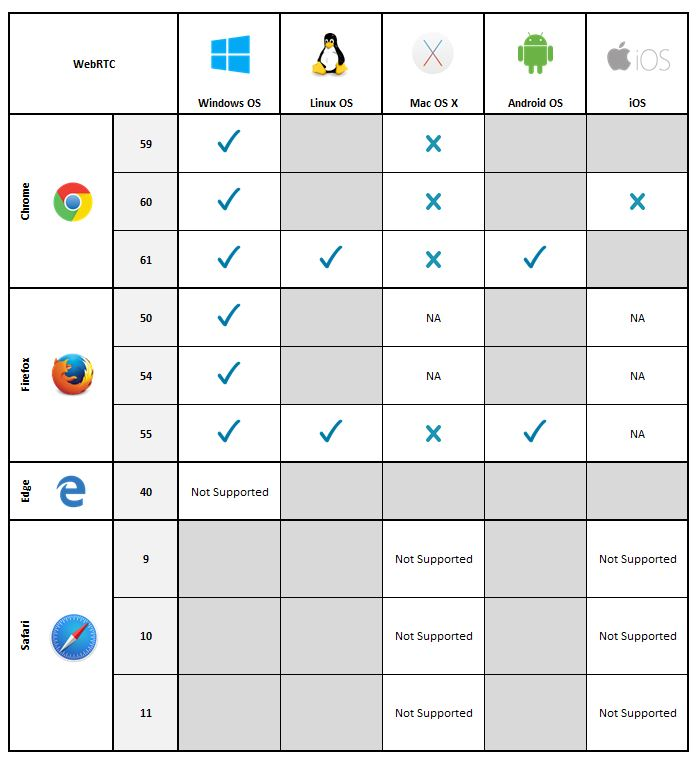
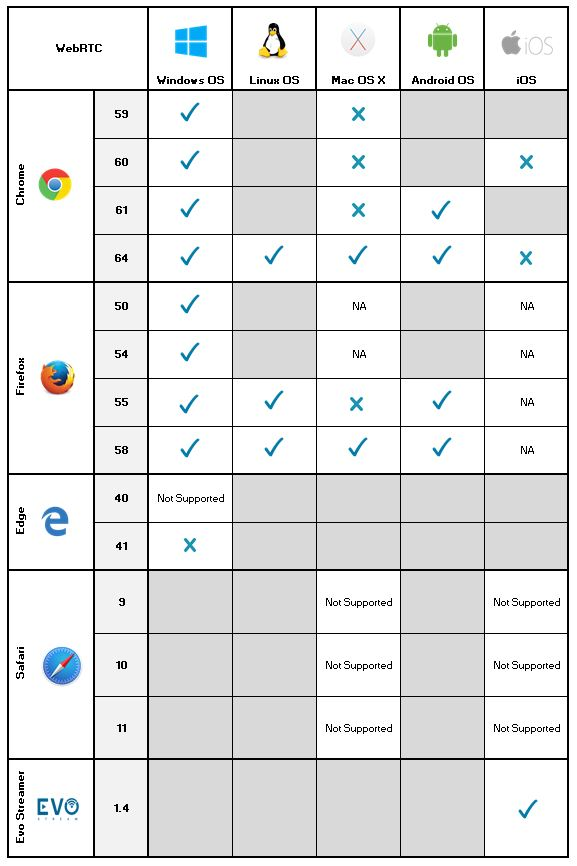
updated and added protocol support matrix

Changed region(s): [[0.0, 0.0, 0.9983, 0.9961]]

diff --git a/pages/userguide/userguide_protocols.md b/pages/userguide/userguide_protocols.md
@@ -284,5 +284,17 @@ Click [here](html5players_wsoverview.html) more information
 
 
 
+## Protocol Support Player Matrix
 
+The following diagram shows the compatibility of various players with the EvoStream 2.0 supported protocols.
+
+![](images/userguide/protocolsupport_h264.JPG.JPG)
+
+
+
+![](images/html5/ws_compatibility.JPG)
+
+
+
+![](images/html5/webrtc_compatibility.JPG)
 
